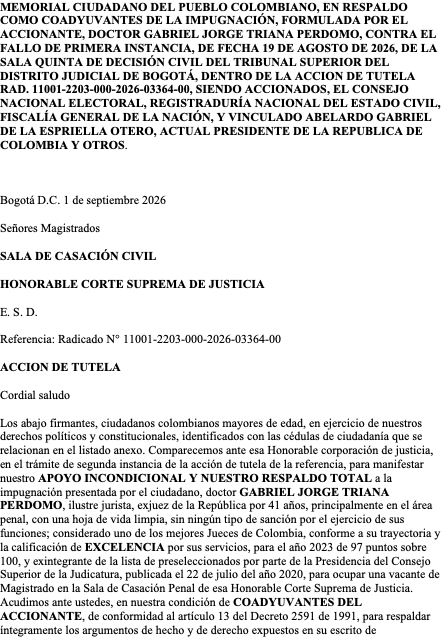
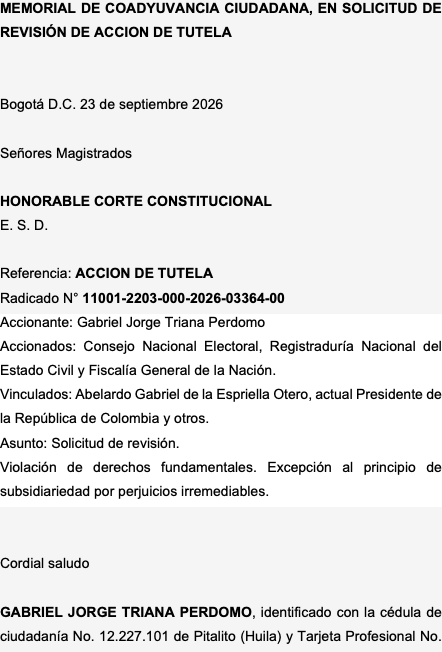
Actualizar memorial: Solicitud de Revisión ante Corte Constitucional (23 sept 2026)

Changed region(s): [[0.0, 0.2983, 1.0, 1.0], [0.0, 0.0, 1.0, 0.2684]]

diff --git a/index.html b/index.html
@@ -1099,13 +1099,30 @@
       </div>
       <div class="flex-1 p-6 sm:p-10 overflow-y-auto font-serif-legal text-slate-800 text-sm leading-relaxed space-y-4">
         <div class="text-center font-bold text-slate-950 pb-4 border-b border-slate-200">
-          MEMORIAL CIUDADANO DEL PUEBLO COLOMBIANO, EN RESPALDO COMO COADYUVANTES DE LA IMPUGNACIÓN<br>
-          <span class="text-xs text-slate-500 font-mono font-normal">Radicado N° 11001-2203-000-2026-03364-00</span>
-        </div>
-        <p><strong>Bogotá D.C., 1 de septiembre 2026</strong></p>
-        <p>Señores Magistrados<br><strong>SALA DE CASACIÓN CIVIL - HONORABLE CORTE SUPREMA DE JUSTICIA</strong></p>
-        <p>El memorial completo se encuentra visible en la sección inferior de esta página web con opción de descarga e impresión formal.</p>
-        <div class="text-center pt-4">
+        <pre class="whitespace-pre-wrap">
+MEMORIAL DE COADYUVANCIA CIUDADANA, EN SOLICITUD DE REVISIÓN DE ACCIÓN DE TUTELA
+
+Bogotá D.C. 23 de septiembre 2026
+
+Señores Magistrados
+
+HONORABLE CORTE CONSTITUCIONAL
+E. S. D.
+
+Referencia: ACCION DE TUTELA
+Radicado N° 11001-2203-000-2026-03364-00
+Accionante: Gabriel Jorge Triana Perdomo
+Accionados: Consejo Nacional Electoral, Registraduría Nacional del Estado Civil y Fiscalía General de la Nación.
+Vinculados: Abelardo Gabriel de la Espriella Otero, actual Presidente de la República de Colombia y otros.
+Asunto: Solicitud de revisión.
+Violación de derechos fundamentales. Excepción al principio de subsidiariedad por perjuicios irremediables.
+
+Cordial saludo
+
+GABRIEL JORGE TRIANA PERDOMO, identificado con la cédula de ciudadanía No. 12.227.101 de Pitalito (Huila) y Tarjeta Profesional No. 44.680 del Consejo Superior de la Judicatura, exjuez de la República por 41 años, principalmente en el área penal, con una hoja de vida limpia, sin ningún tipo de sanción por el ejercicio de las funciones; considerado uno de los mejores Jueces de Colombia, conforme a la trayectoria y la calificación de EXCELENCIA por los servicios, para el año 2023 de 97 puntos sobre 100, y exintegrante de la lista de preseleccionados por parte de la Presidencia del Consejo Superior de la Judicatura, publicada el 22 de julio del año 2020, para ocupar una vacante de Magistrado en la Sala de Casación Penal de esa Honorable Corte Suprema de Justicia. En mi calidad de ACCIONANTE, junto con los COADYUVANTES, ciudadanos colombianos mayores de edad, en ejercicio de nuestros derechos políticos y constitucionales, identificados con las cédulas de ciudadanía que se relacionan en el listado anexo, y de conformidad al artículo 13 del Decreto 2591, comparecemos ante esa corporación de justicia, para solicitar LA REVISION de la acción de tutela de la referencia, en la que los fallos de primera y segunda instancia, negaron al accionante la protección de los derechos fundamentales invocados. Vulneración y amenaza que afecta igualmente a los más de 13 millones de colombianos que no votamos por el señor Abelardo Gabriel de la Espriella Otero para la presidencia de Colombia, ni estamos de acuerdo con su pensamiento político ni su forma de gobernar.
+
+... (rest of the provided text) ...
+        </pre>
           <a href="#memorial-reader" onclick="closeModal('memorial-modal')" class="inline-block bg-slate-900 text-amber-400 px-5 py-2.5 rounded-xl font-sans font-bold text-xs">
             Ir al lector completo en la página
           </a>
